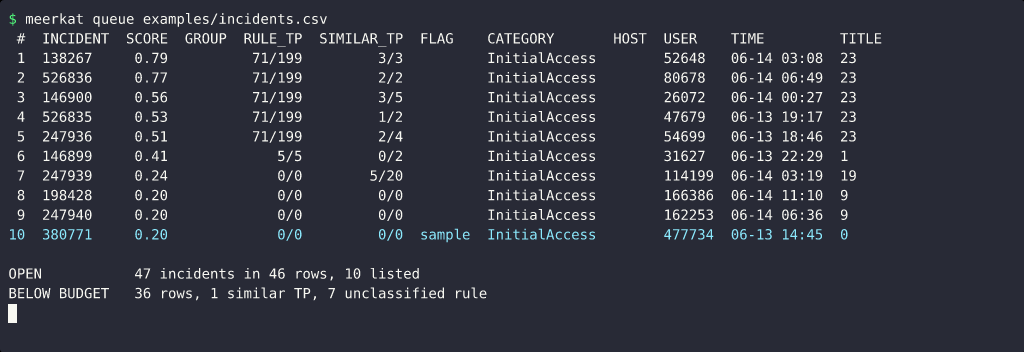
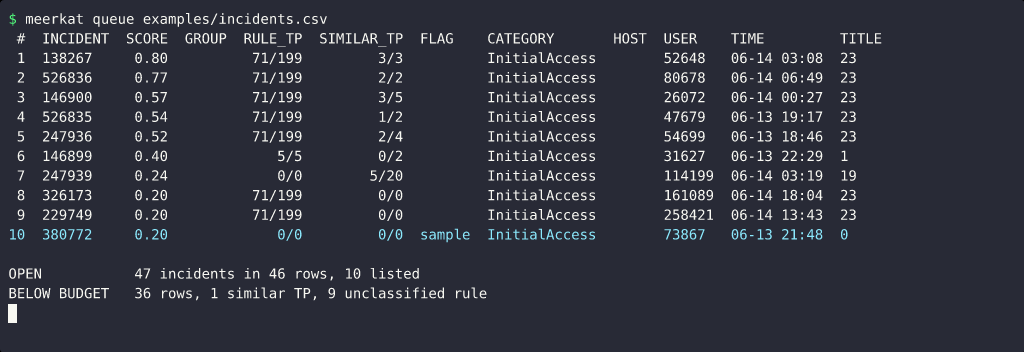
docs: report the score with late verdicts (#138)

diff --git a/bench/delay.py b/bench/delay.py
@@ -1,0 +1,103 @@
+# Scores the later 40% of GUIDE when an earlier incident's grade is only known some time after it starts.
+
+import argparse
+from pathlib import Path
+
+import numpy as np
+import pandas as pd
+from sklearn.linear_model import LogisticRegression
+from sklearn.metrics import average_precision_score
+from sklearn.pipeline import make_pipeline
+from sklearn.preprocessing import StandardScaler
+
+from bench.train import HISTORY, TRAIN_SHARE, _blank_markers, _per_org, read_guide
+from core import features, rank
+from core.incidents import CLASSIFICATIONS
+
+DELAYS = {"0": 0, "1 hour": 3600, "1 day": 86400, "7 days": 7 * 86400}
+
+
+def main() -> None:
+    parser = argparse.ArgumentParser()
+    parser.add_argument("guide", type=Path, help="path to GUIDE_Train.csv")
+    args = parser.parse_args()
+
+    incidents = read_guide(args.guide)
+    _blank_markers(incidents)
+    times = pd.to_datetime(incidents["Timestamp"], utc=True, format="ISO8601")
+    nanos = times.dt.as_unit("ns").astype("int64").to_numpy()
+    cut = int(np.quantile(nanos, TRAIN_SHARE))
+    train, test = nanos < cut, nanos >= cut
+    label = (incidents["IncidentGrade"] == "TruePositive").to_numpy(np.int64)
+    prior = float(label[train].mean())
+    org = incidents["OrgId"].to_numpy()
+    weights = rank.load_weights()
+
+    for name, delay in DELAYS.items():
+        inputs = pd.concat(delayed(frame, prior, delay)
+                           for _, frame in incidents.groupby("OrgId", sort=False))
+        inputs = inputs.loc[incidents.index]
+        shipped = inputs[list(features.INPUTS)].to_numpy()
+        logit = ((shipped - weights["mean"]) / weights["scale"]) @ weights["coefficients"]
+        print(f"delay {name}")
+        scored = _report("shipped weights", label[test], logit[test], org[test])
+        model = make_pipeline(StandardScaler(), LogisticRegression(max_iter=2000))
+        model.fit(inputs.loc[train, list(HISTORY)].to_numpy(), label[train])
+        history = model.predict_proba(inputs.loc[test, list(HISTORY)].to_numpy())[:, 1]
+        alone = _report("history only", label[test], history, org[test])
+        gain = [scored[organisation] - alone[organisation] for organisation in scored]
+        print(f"  gain per organisation: mean {np.mean(gain):.4f}, median {np.median(gain):.4f}")
+        _report("rule rate alone", label[test],
+                inputs.loc[test, "rule_true_positive_rate"].to_numpy(), org[test])
+
+
+def delayed(incidents: pd.DataFrame, prior: float, delay: int) -> pd.DataFrame:
+    # an earlier incident still counts as similar inside the delay, only without its grade
+    seconds = pd.to_datetime(incidents["Timestamp"], utc=True, format="ISO8601")
+    seconds = seconds.dt.as_unit("s").astype("int64").to_numpy()
+    code = incidents["IncidentGrade"].map(
+        {name: code for code, name in enumerate(CLASSIFICATIONS)}).fillna(-1).to_numpy(np.int64)
+    whole = np.zeros(len(incidents), np.int64)
+    rule = pd.factorize(incidents["DetectorId"])[0]
+    org_classified = _known_before(seconds, whole, code >= 0, delay)
+    org_tp = _known_before(seconds, whole, code == 0, delay)
+    rule_classified = _known_before(seconds, rule, code >= 0, delay)
+    rule_tp = _known_before(seconds, rule, code == 0, delay)
+
+    incident, other = features._pairs(incidents.reset_index(drop=True),
+                                      features._time_rank(incidents))
+    known = seconds[incident] - seconds[other] > delay
+    incident, other = incident[known], other[known]
+    by_classification = np.array([np.bincount(incident[code[other] == number],
+                                              minlength=len(incidents))
+                                  for number in range(len(CLASSIFICATIONS))])
+    return pd.DataFrame({
+        "org_true_positive_rate": features.smooth(org_tp, org_classified, prior,
+                                                  features.SMOOTH),
+        "rule_true_positive_rate": features.smooth(rule_tp, rule_classified, prior,
+                                                   features.SMOOTH),
+        "log_org_classified": np.log1p(org_classified),
+        "log_rule_classified": np.log1p(rule_classified),
+        **features.similar_inputs(by_classification[0], by_classification.sum(axis=0), prior),
+    }, index=incidents.index)
+
+
+def _known_before(seconds: np.ndarray, key: np.ndarray, counted: np.ndarray,
+                  delay: int) -> np.ndarray:
+    found = np.zeros(len(seconds), np.int64)
+    for rows in pd.Series(key).groupby(key).indices.values():
+        order = np.argsort(seconds[rows], kind="stable")
+        running = np.concatenate([[0], np.cumsum(counted[rows][order])])
+        found[rows] = running[np.searchsorted(seconds[rows][order], seconds[rows] - delay)]
+    return found
+
+
+def _report(name: str, label: np.ndarray, score: np.ndarray, org: np.ndarray) -> dict:
+    per_org = _per_org(label, score, org)
+    print(f"  {name:<16} pooled AP {average_precision_score(label, score):.4f}, mean per "
+          f"organisation AP {np.mean(list(per_org.values())):.4f} over {len(per_org)}")
+    return per_org
+
+
+if __name__ == "__main__":
+    main()

diff --git a/README.md b/README.md
@@ -78,8 +78,10 @@ earlier in time: how often the rule and the organisation were classified true
 positive, and how often the incidents sharing an entity were. The weights ship
 with the package and were fitted on Microsoft's GUIDE dataset. On the later
 40% of GUIDE, the mean average precision over 718 organisations is 0.72,
-against 0.65 for rule and organisation history alone. `bench/train.py`
-reproduces both figures.
+against 0.65 for rule and organisation history alone. That gain assumes a
+verdict is known as soon as the incident starts. With verdicts a day late it
+is 0.65 against 0.62, and the median organisation gains nothing.
+`bench/train.py` and `bench/delay.py` reproduce these figures.
 
 ## Limits
 
